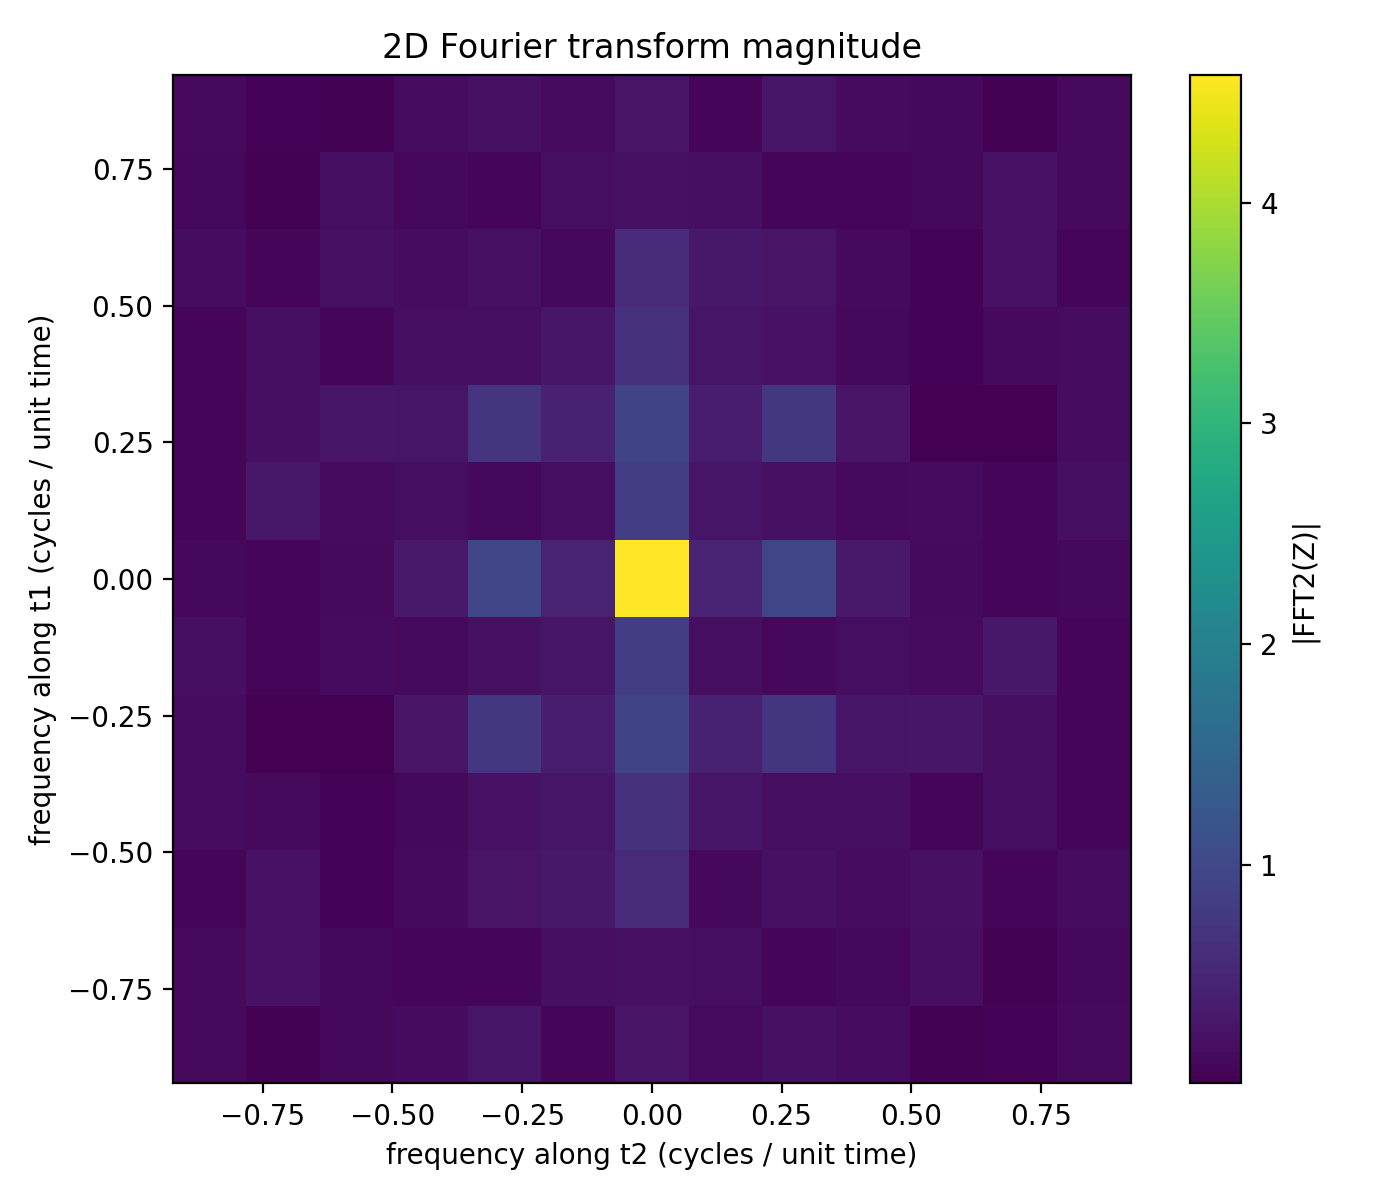
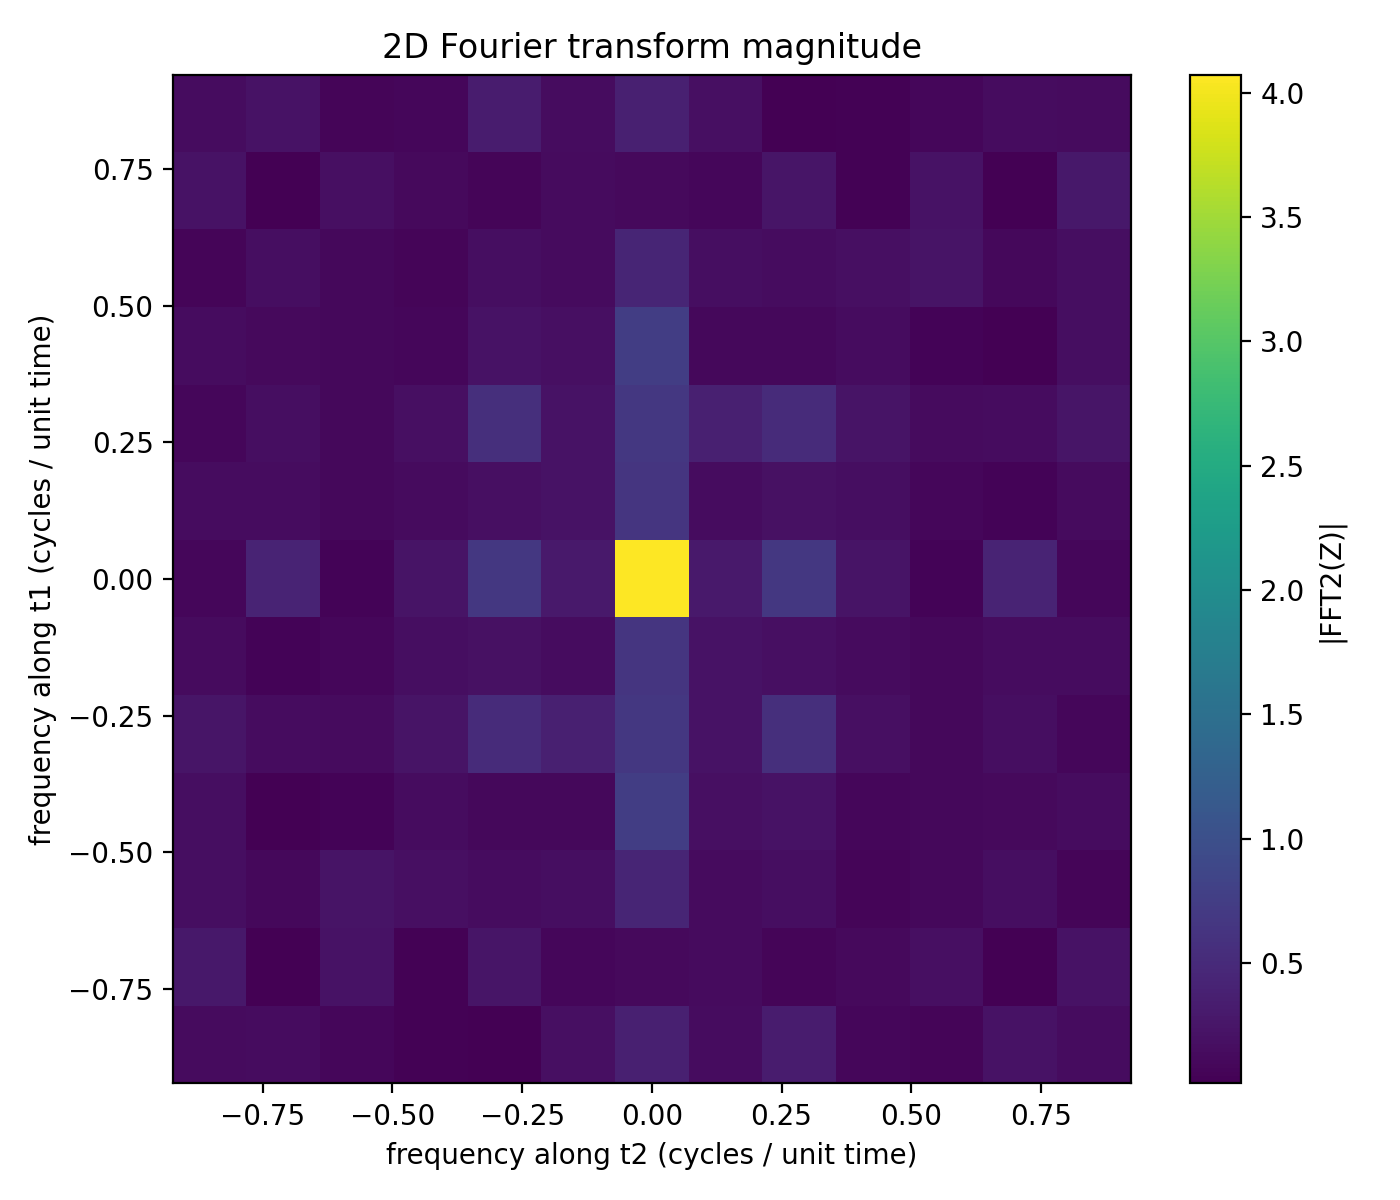
data upload

diff --git a/experiments/holevo_heatmap.py b/experiments/holevo_heatmap.py
@@ -29,7 +29,7 @@ def main() -> None:
     sim_params = AnalogSimParams(dt=dt, num_traj=ntraj, max_bond_dim=4, order=2, get_state=True, solver="MCWF", show_progress=False)
     gamma = 0.1
     noise_model = NoiseModel([
-        {"name": name, "sites": [i], "strength": gamma} for i in range(num_sites) for name in ["lowering"]
+        {"name": name, "sites": [i], "strength": gamma} for i in [-1] for name in ["pauli_z"]
     ])
     # ----- scan settings -----
     T1_max = 6.0
